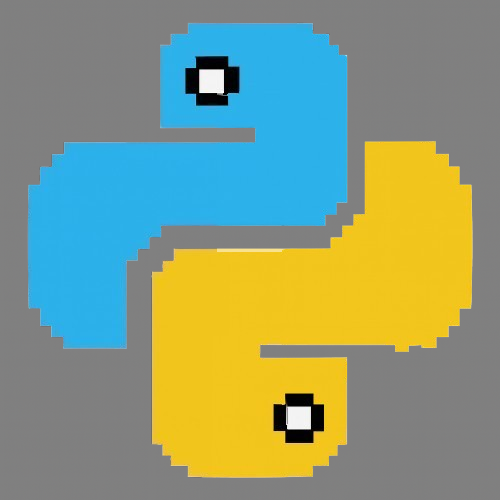
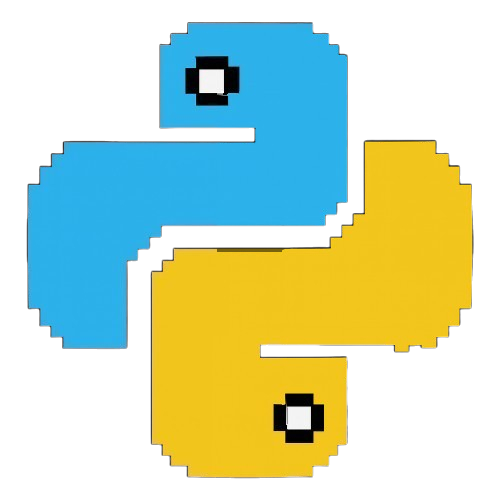
1

diff --git a/index.html b/index.html
@@ -43,7 +43,7 @@
                     </ul>
                 </div>
                 <div class="bloque">
-                    <img src="img/wip.png">
+                    <img src="img/css.png">
                     <ul>
                         <li>Creación de layouts básicos (cabecera, menú, contenido, footer).</li>
                         <li>Selectores básicos (elemento, clase, id) y combinadores.</li>
@@ -65,7 +65,7 @@
             <h4>PROGRAMACIÓN</h4>
             <div class="categoria">
                 <div class="bloque">
-                    <img src="img/wip.png">
+                    <img src="img/python.png">
                     <ul>
                         <li>Utilización de objetos (Métodos, parámetros, propiedades, etc)</li>
                         <li>Uso de estructuras de control</li>

diff --git a/style.css b/style.css
@@ -136,10 +136,10 @@ nav ul li a:hover{
     justify-content: center;
 }
 #contacto, #contacto a{
-    color:rgb(16, 47, 66);
+    color:rgb(108, 180, 159);
     font-size: 16px;
 }
 #contacto a:hover{
-    color:rgb(163, 57, 97);
+    color:rgb(229, 173, 195);
     font-size: 17px;
 }
